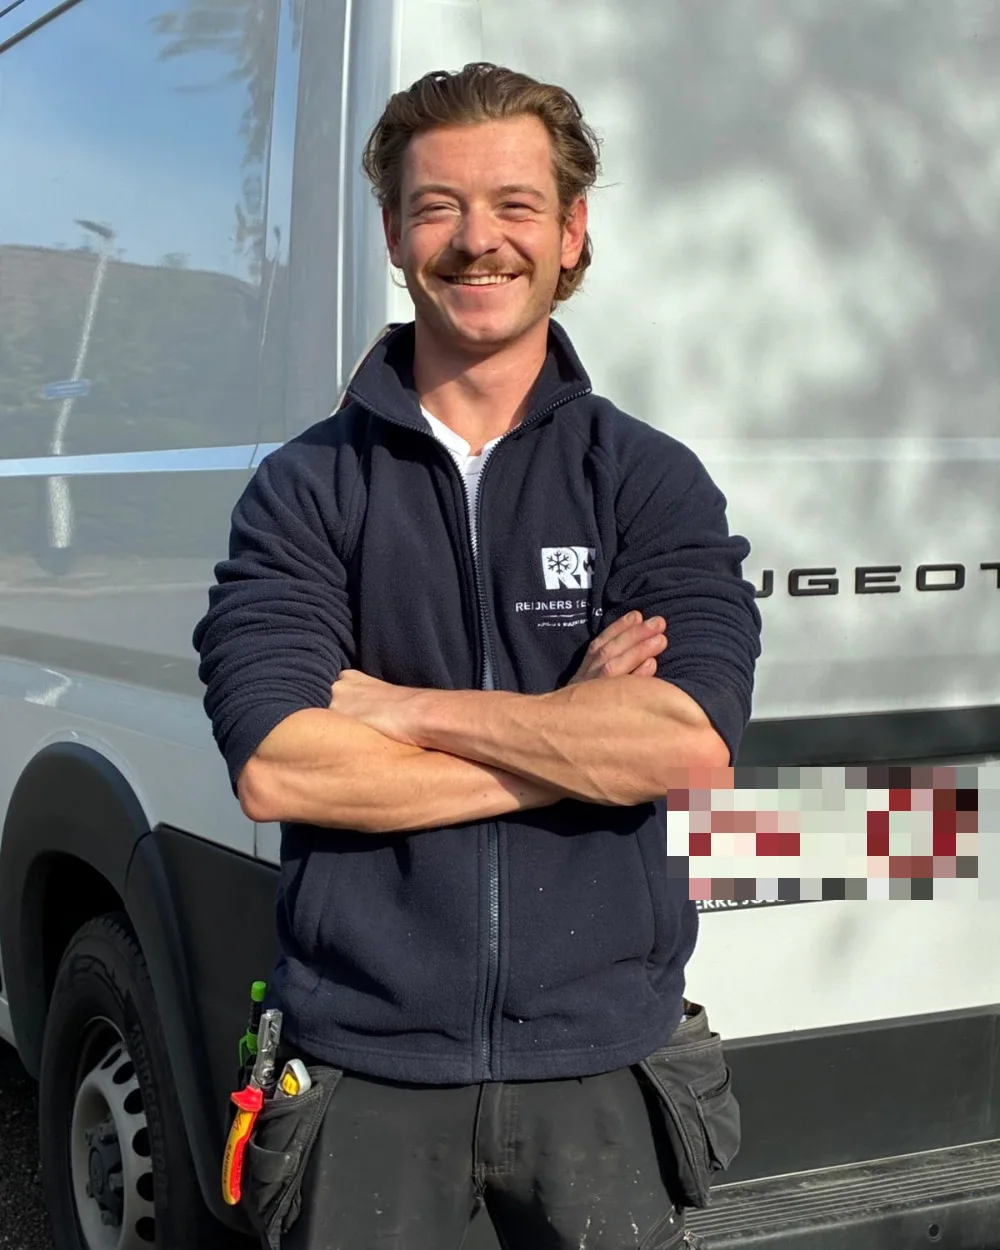
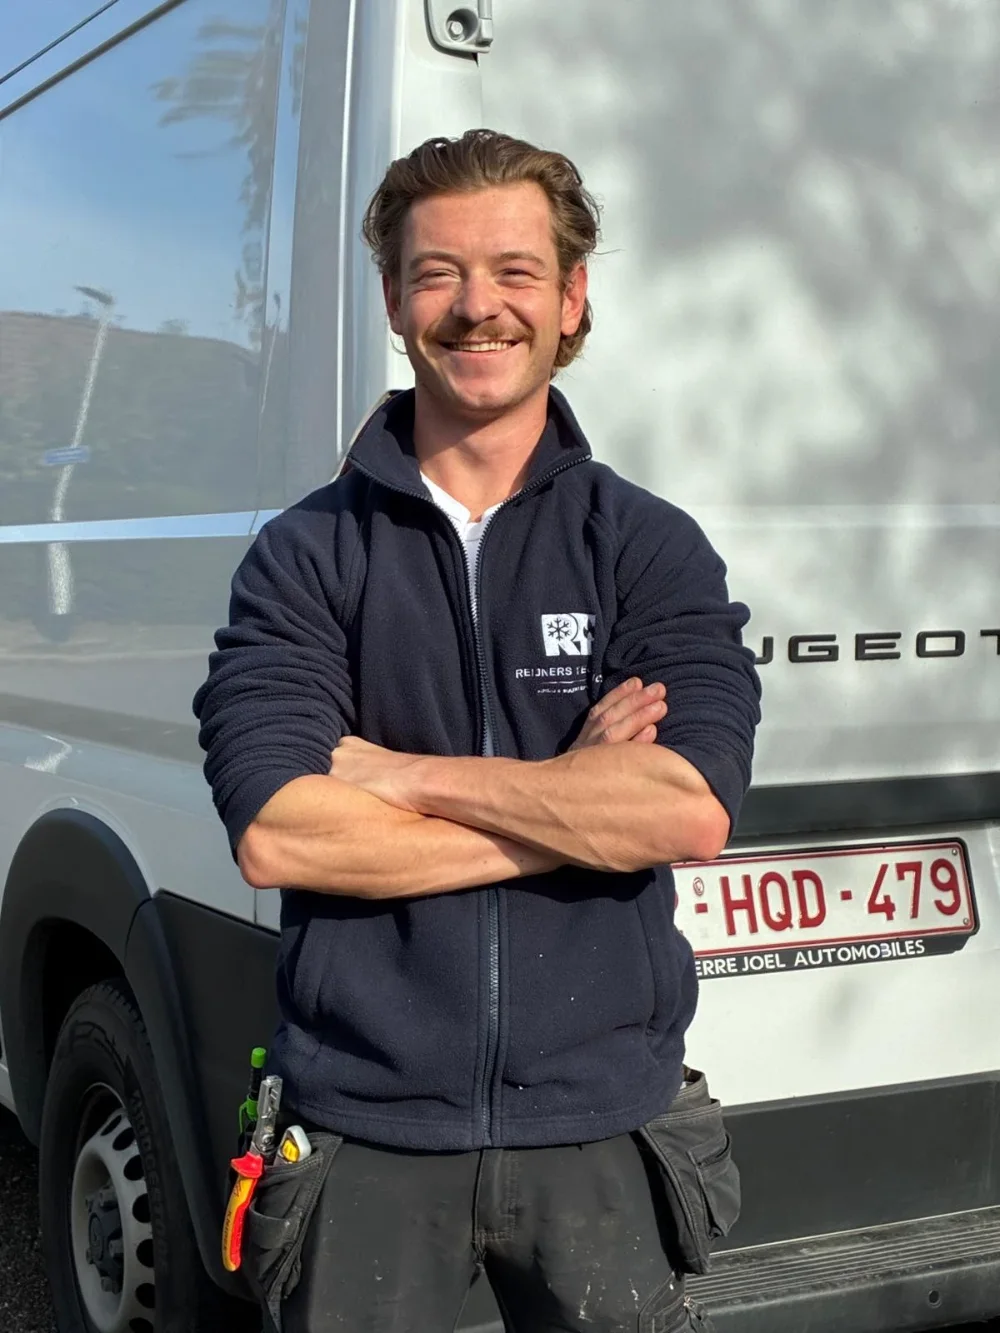
Rims foto's volledig in beeld, nummerplaat zichtbaar (Rims keuze)
- Contact: de foto bij de bestelwagen staat volledig (3:4), niet bijgesneden en
  zonder blokjes op de nummerplaat.
- Diensten, Onderhoud: de twee wisselende foto's volledig in beeld; het fotovak
  heeft de verhouding van de foto's (.dn-foto-staand).
- Projectgeheugen bijgewerkt.

diff --git a/index.html b/index.html
@@ -531,10 +531,11 @@
       </article>
 
       <article class="dn-tegel dn-2" id="dienst-onderhoud">
-        <!-- Rims eigen foto's van een onderhoud (28-10-2026): eerst de filter, dan het poetsen; ze wisselen (data-rotate, zie js/main.js) -->
-        <div class="dn-foto" data-rotate="4000">
-          <img class="rot on" src="assets/img/d-onderhoud-filter.webp" alt="Rim haalt de filter uit een binnenunit bij een onderhoud" width="1200" height="900">
-          <img class="rot" data-src="assets/img/d-onderhoud-poetsen.webp" alt="Rim poetst de binnenunit met een doek" width="1200" height="900">
+        <!-- Rims eigen foto's van een onderhoud (28-10-2026): eerst de filter, dan het poetsen; ze wisselen (data-rotate, zie js/main.js).
+             Staande foto's, volledig in beeld (dn-foto-staand): Rim wil er helemaal op staan. -->
+        <div class="dn-foto dn-foto-staand" data-rotate="4000">
+          <img class="rot on" src="assets/img/d-onderhoud-filter.webp" alt="Rim haalt de filter uit een binnenunit bij een onderhoud" width="900" height="1200">
+          <img class="rot" data-src="assets/img/d-onderhoud-poetsen.webp" alt="Rim poetst de binnenunit met een doek" width="900" height="1200">
         </div>
         <div class="dn-body">
           <div class="v3-kicker">Onderhoud</div>
@@ -2797,11 +2798,11 @@
 <section class="alt v2-after-phead ct-sec" data-page="contact">
   <div class="wrap">
 
-    <!-- Rim in het groot (zijn vraag, 28-10-2026): de bezoeker ziet met wie hij te maken heeft. De nummerplaat van de
-         bestelwagen is onherkenbaar gemaakt. Rechts de vier knoppen: bellen, WhatsApp, e-mail, offerte. -->
+    <!-- Rim in het groot (zijn vraag, 28-10-2026): de bezoeker ziet met wie hij te maken heeft. De foto staat volledig
+         (niet bijgesneden, nummerplaat zichtbaar: Rims keuze). Rechts de vier knoppen: bellen, WhatsApp, e-mail, offerte. -->
     <div class="ct-top">
       <figure class="ct-rim">
-        <img src="assets/img/rim-bestelwagen.webp" alt="Rim Reijners, zaakvoerder van Reijners Technics, bij zijn bestelwagen" width="1000" height="1250">
+        <img src="assets/img/rim-bestelwagen.webp" alt="Rim Reijners, zaakvoerder van Reijners Technics, bij zijn bestelwagen" width="1000" height="1333">
         <figcaption><b>Rim Reijners</b> zaakvoerder</figcaption>
       </figure>
       <div class="ct-top-tekst">

diff --git a/css/style.css b/css/style.css
@@ -9356,9 +9356,7 @@ img.td-zoomable:focus-visible {
 .ct-rim img {
   display: block;
   width: 100%;
-  height: auto;
-  aspect-ratio: 4 / 5;
-  object-fit: cover;
+  height: auto; /* de volledige foto (3:4), niet bijgesneden: Rims keuze */
 }
 .ct-rim figcaption {
   position: absolute;
@@ -9588,13 +9586,6 @@ img.td-zoomable:focus-visible {
     grid-template-columns: 1fr;
     gap: 18px;
   }
-  .ct-rim img {
-    aspect-ratio: 4 / 3;
-    object-position: 50% 30%;
-  }
-  .ct-rim figcaption {
-    padding-top: 36px;
-  }
   .ct-top-tekst > p {
     margin-bottom: 16px;
   }
@@ -9690,6 +9681,10 @@ img.td-zoomable:focus-visible {
   width: 100%;
   height: 100%;
   object-fit: cover;
+}
+/* staande foto's (Onderhoud: Rim volledig in beeld): het vak heeft de verhouding van de foto, dus niets wordt afgesneden */
+.dn-foto-staand {
+  aspect-ratio: 3 / 4;
 }
 .dn-body {
   display: flex;
@@ -9791,6 +9786,11 @@ img.td-zoomable:focus-visible {
     aspect-ratio: auto;
     min-height: 280px;
   }
+  .dn-foto-staand {
+    flex-basis: 34%;
+    aspect-ratio: 3 / 4;
+    align-self: flex-start;
+  }
   .dn-body {
     justify-content: center;
     padding: 30px 36px 32px;
@@ -9826,6 +9826,9 @@ img.td-zoomable:focus-visible {
   .dn-foto {
     flex-basis: 40%;
     min-height: 240px;
+  }
+  .dn-foto-staand {
+    flex-basis: 36%;
   }
   .dn-body {
     padding: 22px 24px 24px;

diff --git a/CLAUDE.md b/CLAUDE.md
@@ -143,7 +143,7 @@ Dit bestand lezen alle sessies en alle agents van het team. Hoe de site technisc
     - op de kaarten in de lijst is de donkere maat die van de filter Vermogen (vroeger de grootste maat).
   - Nog open uit die controle (later, niet dringend): de prijsnotatie verschilt: "€ 2.450 – 3.050" op de toestelpagina, "€ 2.450 – € 3.050" in het prijsadvies. (De tikdoelen, de zwevende knoppen en de productfoto's zijn op 26-10 aangepakt, zie hieronder.)
 - 28 oktober 2026, branch `verbeteringen-26-10`, **online sinds 28-10-2026** (Rims akkoord): de pagina Contact (Rims keuzes: snel bellen of WhatsAppen, strak en rustig): vier grote knoppen (Bel Rim, WhatsApp, E-mail, Offerte aanvragen), "Zo gaat het verder" in drie stappen, één gegevenskaart (met bereikbaar werkdagen 8-18 uur en Instagram) en de kaart "Waarvoor mag Rim langskomen?" met Plaatsing/Onderhoud/Herstelling aanvragen. Het aparte contactformulier (`#lead-form`) en de contact-FAQ zijn weg; de code ervoor in `js/main.js` doet niets meer. Screenshots voor en na: `voorbeeld/contact-2026-10-28/`. Tip die Rim wil bewaren: de link in zijn Instagram-bio wordt `https://website-reijners-technics.vercel.app/#contact` (staat ook in `voorbeeld/social/index.html`).
-- 28 oktober 2026, branch `diensten-28-10`, **nog niet online** (wacht op Rims akkoord): de pagina Diensten als drie tegels onder elkaar in de stijl van Contact (Rims keuzes: onder elkaar, strak en rustig, eigen foto per dienst, zo kort als nu; op computer de foto naast de tekst). Rims eigen foto's van 28-10: `assets/img/rim-bestelwagen.webp` (Rim bij zijn bestelwagen, nummerplaat onherkenbaar gemaakt; groot op Contact naast de vier knoppen), `d-onderhoud-filter.webp` en `d-onderhoud-poetsen.webp` (wisselen in de tegel Onderhoud via `data-rotate`, eerst de filter, dan het poetsen); Herstelling toont `g-n29` (twee Daikin-buitenunits met het materiaal). Bronfoto's en schermfoto's: `voorbeeld/rim-fotos-2026-10-28/` en `voorbeeld/diensten-2026-10-28/`. Het oude CSS-blok `.svc-blok*` van 27-10 is ongebruikt en mag later weg.
+- 28 oktober 2026, branch `diensten-28-10`, **online sinds 28-10-2026** (Rims akkoord): de pagina Diensten als drie tegels onder elkaar in de stijl van Contact (Rims keuzes: onder elkaar, strak en rustig, eigen foto per dienst, zo kort als nu; op computer de foto naast de tekst). Rims eigen foto's van 28-10: `assets/img/rim-bestelwagen.webp` (Rim bij zijn bestelwagen, groot op Contact naast de vier knoppen), `d-onderhoud-filter.webp` en `d-onderhoud-poetsen.webp` (wisselen in de tegel Onderhoud via `data-rotate`, eerst de filter, dan het poetsen). Rims keuze: alle drie volledig in beeld (staand 3:4, niet bijgesneden, `.dn-foto-staand`) en de nummerplaat zichtbaar; Herstelling toont `g-n29` (twee Daikin-buitenunits met het materiaal). Bronfoto's en schermfoto's: `voorbeeld/rim-fotos-2026-10-28/` en `voorbeeld/diensten-2026-10-28/`. Het oude CSS-blok `.svc-blok*` van 27-10 is ongebruikt en mag later weg.
 - Promotieplan voor Instagram en andere kanalen, met voorbeeldberichten en reels: `voorbeeld/social/index.html` (prijzen bijgewerkt op 24-10-2026).
 - Huisstijl: sinds 21 oktober 2026 staat het lettertype "C" (Source Serif + Source Sans) met de huidige kleuren online. De kleuren en lettertypes zijn nog in beoordeling: de voorstellen A (huidig, bijgewerkt), B (Vakwerk) en C (Helder) staan in `voorbeeld/huisstijl/`. Rim kiest.
 - Audit vóór de livegang (21 oktober 2026): `AUDIT.md` (nog niet in git) en `voorbeeld/audit/`. Verbeterplan voor Diensten, Over ons en Realisaties (22 oktober 2026): `voorbeeld/paginas/verbeterplan.md`, met een echte fout in het aanvraagformulier (D-1) en foto's met Gree en Olimpia Splendid op Realisaties (R-2). Van beide is nog niets uitgevoerd: ze wachten op Rims antwoorden en akkoord.
